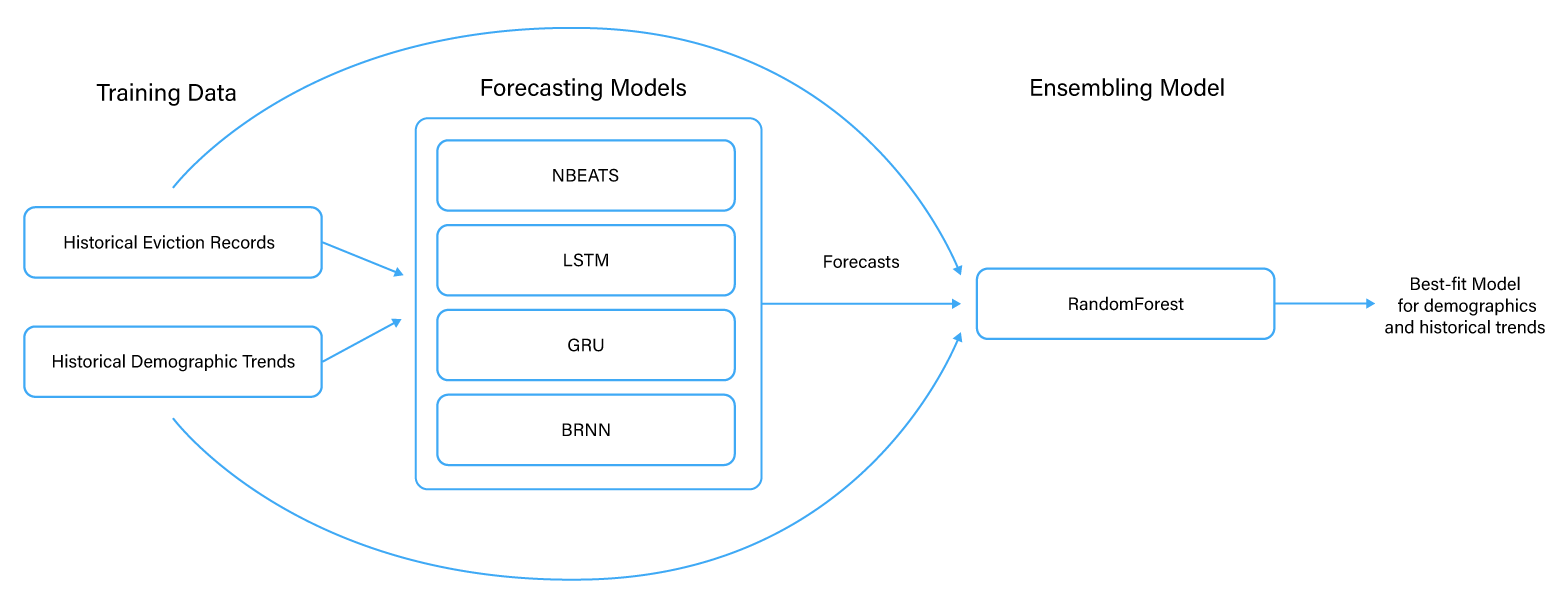
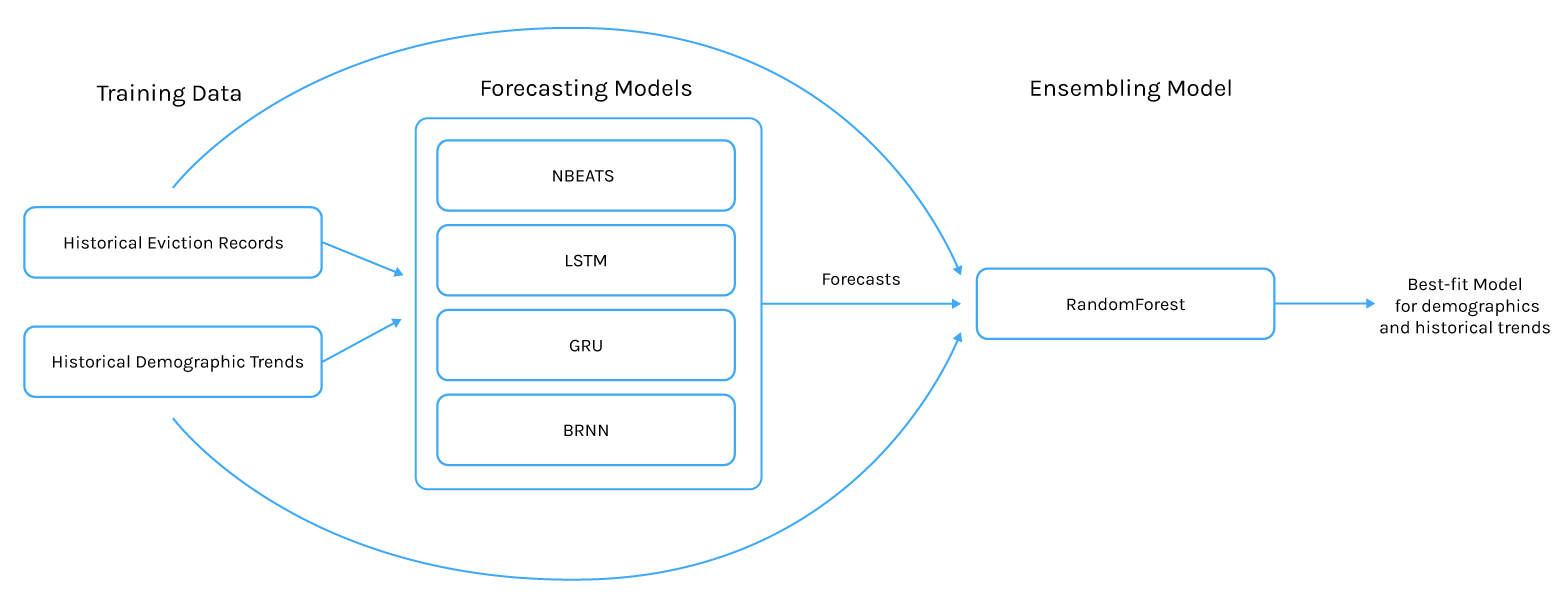
updating fonts + images

diff --git a/index.html b/index.html
@@ -14,26 +14,18 @@
 
     <!-- Le styles -->
     <link href="bootstrap/css/bootstrap.css" rel="stylesheet">
+
+    <link rel="stylesheet" href="https://fonts.googleapis.com/css?family=Karla">
+    <link rel="stylesheet" href="https://fonts.googleapis.com/css?family=DM+Serif+Display">
     <style type="text/css">
       body {
+        font-family: 'Karla', serif;
         padding-top: 60px;
         padding-bottom: 40px;
       }
-    </style>
-    <link href="bootstrap/css/bootstrap-responsive.css" rel="stylesheet">
-
-    <!-- Le HTML5 shim, for IE6-8 support of HTML5 elements -->
-    <!--[if lt IE 9]>
-      <script src="https://oss.maxcdn.com/html5shiv/3.7.3/html5shiv.min.js"></script>
-    <![endif]-->
-
-    <!-- Le fav and touch icons -->
-    <link rel="shortcut icon" href="bootstrap/ico/favicon.ico">
-    <link rel="apple-touch-icon-precomposed" sizes="114x114" href="bootstrap/ico/apple-touch-icon-114-precomposed.png">
-    <link rel="apple-touch-icon-precomposed" sizes="72x72" href="bootstrap/ico/apple-touch-icon-72-precomposed.png">
-    <link rel="apple-touch-icon-precomposed" href="bootstrap/ico/apple-touch-icon-57-precomposed.png">
-
-    <style>
+      h1 {
+        font-family: 'DM+Serif+Display';
+      }
 
     /*map { position: absolute; top: 0; bottom: 0; width: 50%; }*/
     .map { overflow: visible; width: 600px; min-width: 600px; min-height: 600px;}
@@ -45,7 +37,7 @@
       /*bottom: 0;*/
       /*overflow: auto;*/
       word-wrap: break-word;
-      font-family: sans-serif;
+      /*font-family: sans-serif;*/
       padding-left: 20px;
     }
 
@@ -56,7 +48,7 @@
       /*bottom: 0;*/
       /*overflow: auto;*/
       word-wrap: break-word;
-      font-family: sans-serif;
+      /*font-family: sans-serif;*/
       padding-left: 20px;
     }
 
@@ -73,9 +65,20 @@
       width:960px;
       margin:0 auto;
     }
-
     </style>
 
+    <link href="bootstrap/css/bootstrap-responsive.css" rel="stylesheet">
+
+    <!-- Le HTML5 shim, for IE6-8 support of HTML5 elements -->
+    <!--[if lt IE 9]>
+      <script src="https://oss.maxcdn.com/html5shiv/3.7.3/html5shiv.min.js"></script>
+    <![endif]-->
+
+    <!-- Le fav and touch icons -->
+    <link rel="shortcut icon" href="bootstrap/ico/favicon.ico">
+    <link rel="apple-touch-icon-precomposed" sizes="114x114" href="bootstrap/ico/apple-touch-icon-114-precomposed.png">
+    <link rel="apple-touch-icon-precomposed" sizes="72x72" href="bootstrap/ico/apple-touch-icon-72-precomposed.png">
+    <link rel="apple-touch-icon-precomposed" href="bootstrap/ico/apple-touch-icon-57-precomposed.png">
 
   </head>
 
